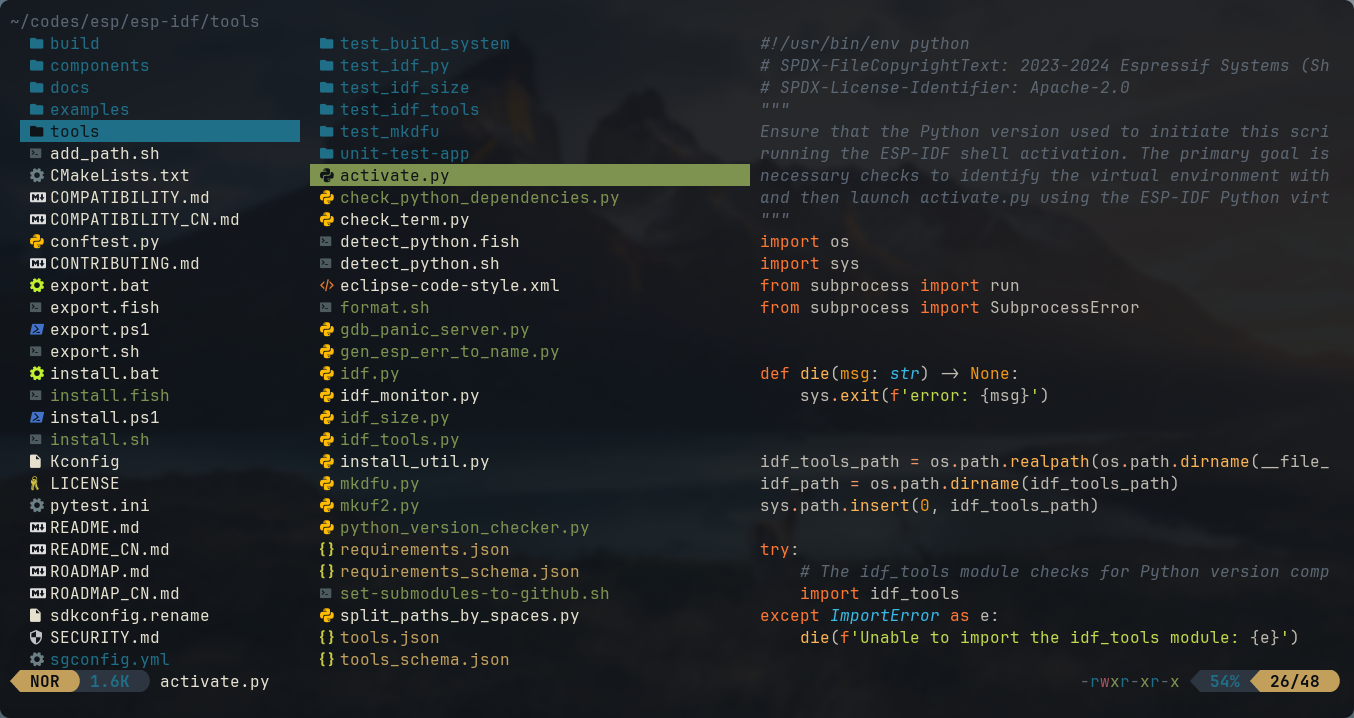
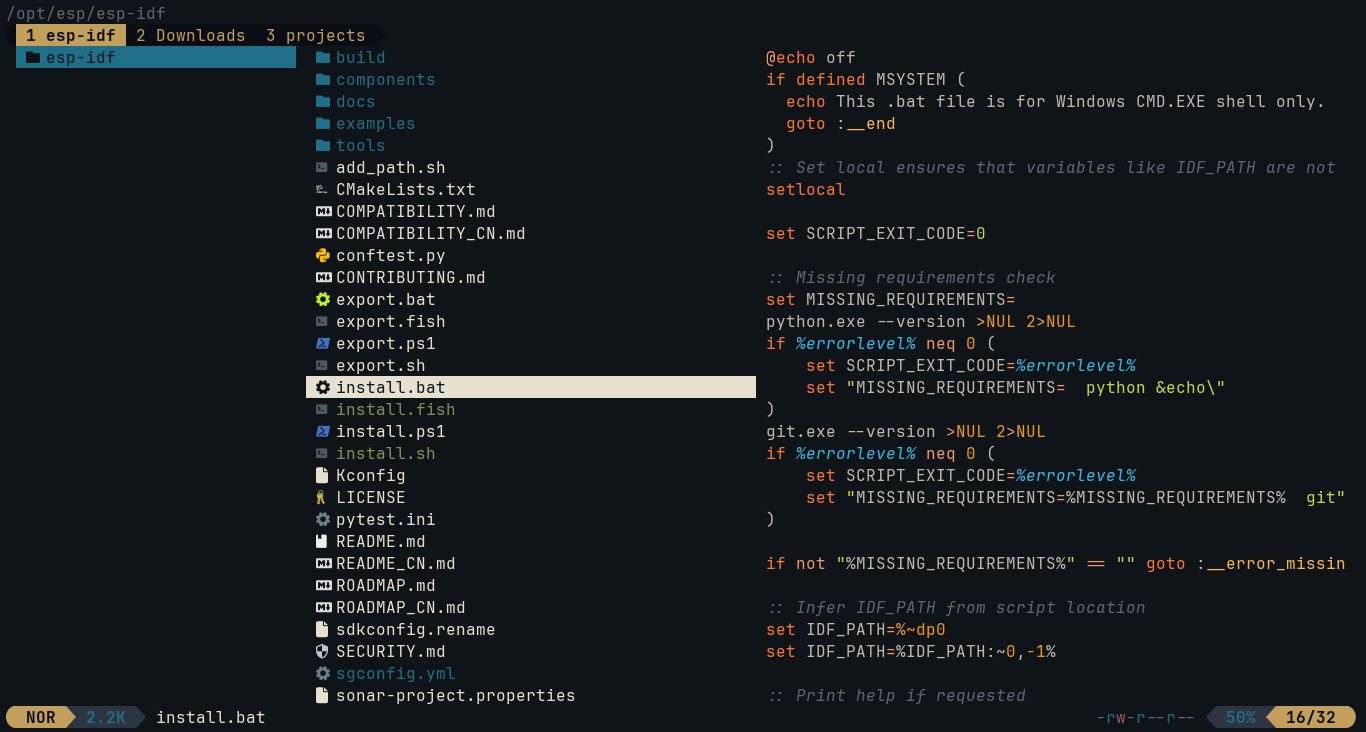
update yazi style

diff --git a/yazi/plugins/full-border.yazi/README.md b/yazi/plugins/full-border.yazi/README.md
@@ -1,0 +1,32 @@
+# full-border.yazi
+
+Add a full border to Yazi to make it look fancier.
+
+![full-border](https://github.com/yazi-rs/plugins/assets/17523360/ef81b560-2465-4d36-abf2-5d21dcb7b987)
+
+## Installation
+
+```sh
+ya pkg add yazi-rs/plugins:full-border
+```
+
+## Usage
+
+Add this to your `init.lua` to enable the plugin:
+
+```lua
+require("full-border"):setup()
+```
+
+Or you can customize the border type:
+
+```lua
+require("full-border"):setup {
+	-- Available values: ui.Border.PLAIN, ui.Border.ROUNDED
+	type = ui.Border.ROUNDED,
+}
+```
+
+## License
+
+This plugin is MIT-licensed. For more information check the [LICENSE](LICENSE) file.

diff --git a/yazi/flavors/ayu-dark.yazi/README.md b/yazi/flavors/ayu-dark.yazi/README.md
@@ -13,7 +13,7 @@
 ## 🎨 Installation
 
 ```bash
-ya pack -a kmlupreti/ayu-dark
+ya pkg add kmlupreti/ayu-dark
 ```
 
 ## ⚙️ Usage